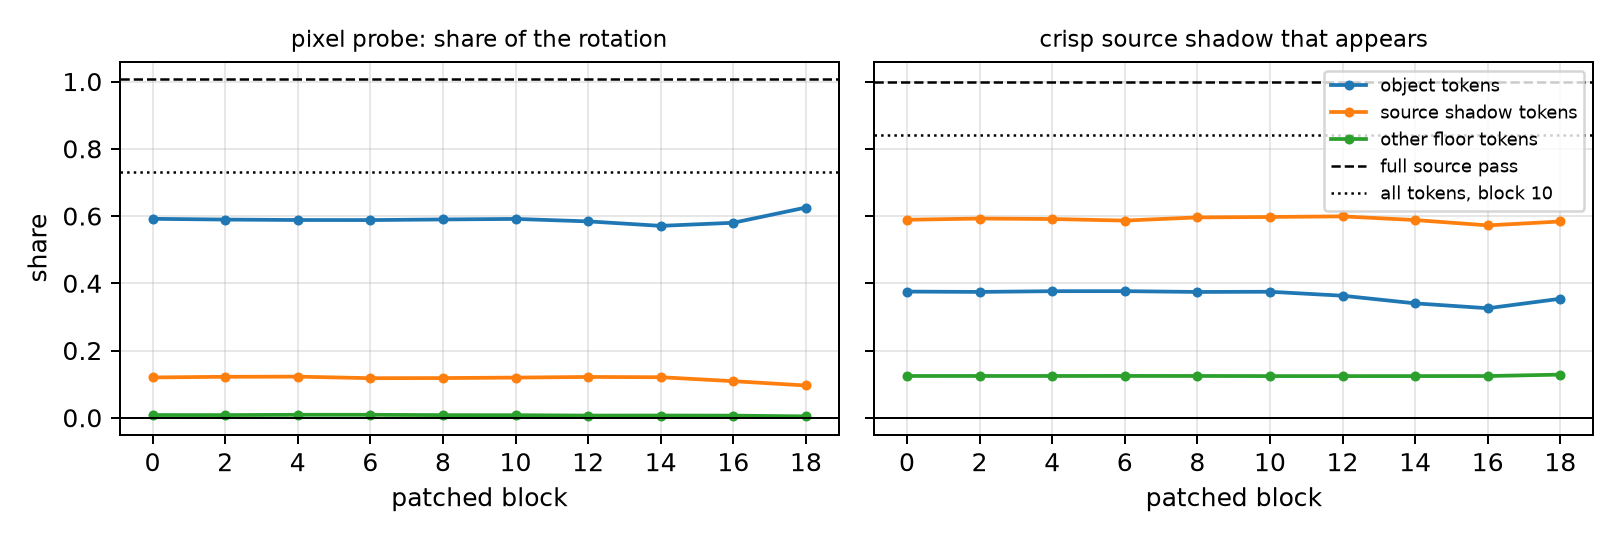
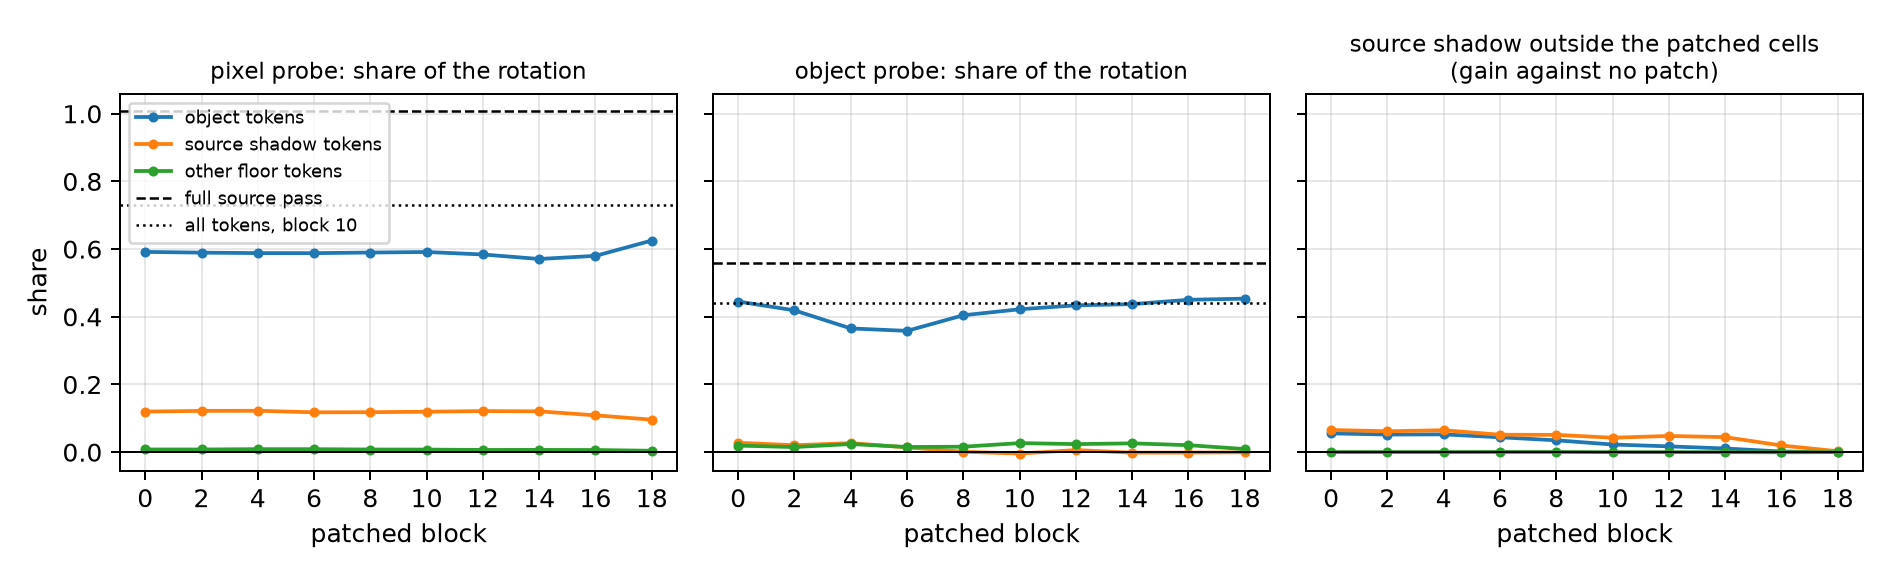
feat: add the object probe to the shift table and an erasure table
The patch figure now also shows the object probe and the source shadow outside
the patched cells. The causal bar figure is removed, because the table has its data.

diff --git a/scripts/experiments/result_figures.py b/scripts/experiments/result_figures.py
@@ -2,10 +2,11 @@
 
 - scan.png: the azimuth MAE of the SANA probe on each block, for each data set.
   Each timestep has one line, and the controls are horizontal lines.
-- causal.png: the rotation of the output light for each condition of the shift
-  and erase test, for each block;
+- causal.tex: the four measures of the output light for each condition of the
+  shift test, for each block;
+- erase.tex: the probe on the erased features and the output light for each eraser;
 - patch.png: the share of the light change that a patch of one region in one
-  block moves into the output.
+  block moves into the output, and the source shadow outside the patched cells.
 
 If the input files of a figure do not exist, the script skips the figure.
 """
@@ -21,16 +22,16 @@ import matplotlib
 
 matplotlib.use("Agg")
 import matplotlib.pyplot as plt  # noqa: E402
-import numpy as np  # noqa: E402
 import pandas as pd  # noqa: E402
 
 from dd3d.select import selected  # noqa: E402
 
+# The models without generation get a colour, so their lines differ from the black input controls.
 CONTROLS = {
-    "vae_latent": ("DC-AE latent", ":"),
-    "sana_random_init": ("SANA, random weights", "-."),
-    "dinov2": ("DINOv2-L (no generation)", (0, (5, 1, 1, 1))),
-    "clip": ("CLIP ViT-L/14 (no generation)", (0, (1, 1))),
+    "vae_latent": ("DC-AE latent", ":", "k"),
+    "sana_random_init": ("SANA, random weights", "-.", "k"),
+    "dinov2": ("DINOv2-L (no generation)", "--", "tab:red"),
+    "clip": ("CLIP ViT-L/14 (no generation)", ":", "tab:red"),
 }
 
 
@@ -82,7 +83,7 @@ def scan_figure(reports: Path, sets: list[str], split: str, grid: int, out: Path
         line = best_pixel_line(reports, name, split)
         if line is not None:
             ax.axhline(line[0], color="k", ls="--", lw=1, label=line[1])
-        for run, (label, style) in CONTROLS.items():
+        for run, (label, style, colour) in CONTROLS.items():
             row = sel[sel["run"] == run]
             if row.empty:
                 continue
@@ -94,7 +95,7 @@ def scan_figure(reports: Path, sets: list[str], split: str, grid: int, out: Path
                 & (df["grid"] == r["grid"])
             ]
             if len(v):
-                ax.axhline(v["az_mae"].iloc[0], color="k", ls=style, lw=1, label=label)
+                ax.axhline(v["az_mae"].iloc[0], color=colour, ls=style, lw=1.2, label=label)
         ax.set_title(TITLES.get(name, name), fontsize=9)
         ax.set_xlabel("block")
         ax.grid(alpha=0.3)
@@ -110,41 +111,6 @@ def scan_figure(reports: Path, sets: list[str], split: str, grid: int, out: Path
     print(f"-> {out}")
 
 
-def causal_figure(reports: Path, out: Path) -> None:
-    folders = sorted((reports / "causal").glob("b*/results.csv"))
-    if not folders:
-        print("causal figure: no results")
-        return
-    frames = []
-    for f in folders:
-        d = pd.read_csv(f)
-        d["block"] = int(f.parent.name[1:])
-        frames.append(d)
-    df = pd.concat(frames)
-    df = df[df["condition"] != "base"]
-    conds = list(dict.fromkeys(df["condition"]))
-    blocks = sorted(df["block"].unique())
-    fig, ax = plt.subplots(figsize=(7.5, 3.0))
-    width = 0.8 / len(blocks)
-    for j, b in enumerate(blocks):
-        g = df[df["block"] == b].set_index("condition").reindex(conds)
-        ci = np.array([json.loads(str(c).replace("(", "[").replace(")", "]")) for c in g["rotation_ci"]])
-        x = np.arange(len(conds)) + (j - (len(blocks) - 1) / 2) * width
-        err = np.abs(ci.T - g["rotation_mean"].to_numpy())
-        ax.bar(x, g["rotation_mean"], width, yerr=err, capsize=2, label=f"block {b}")
-    ax.axhline(90, color="k", ls=":", lw=1)
-    ax.axhline(0, color="k", lw=0.8)
-    ax.set_xticks(
-        range(len(conds)), [c.replace("shift:", "") for c in conds], rotation=25, ha="right", fontsize=8
-    )
-    ax.set_ylabel("rotation of the output (deg)")
-    ax.legend(fontsize=7)
-    ax.grid(axis="y", alpha=0.3)
-    fig.tight_layout()
-    fig.savefig(out, dpi=180)
-    print(f"-> {out}")
-
-
 def signed(v: float) -> str:
     """Format a rotation with its sign; a value that rounds to zero is 0."""
     r = round(float(v))
@@ -152,10 +118,10 @@ def signed(v: float) -> str:
 
 
 def causal_table(reports: Path, out: Path, folder: str = "causal") -> None:
-    """Write a LaTeX table: one row for each condition, two measures for each block.
+    """Write a LaTeX table: one row for each condition, one column for each measure.
 
-    The first measure is the pixel probe (mean rotation with a 95% interval). The
-    second is the dark shadow region (median rotation over the images).
+    Each cell gives the values of the blocks in the order of their numbers. The
+    rotations are the mean for the two probes and the median for the dark region.
     """
     files = sorted((reports / folder).glob("b*/results.csv"))
     if not files:
@@ -164,25 +130,88 @@ def causal_table(reports: Path, out: Path, folder: str = "causal") -> None:
     frames = {b: pd.read_csv(f).set_index("condition") for b, f in zip(blocks, files, strict=True)}
     order = sorted(blocks)
     conds = [c for c in frames[order[0]].index if c != "base"]
+    columns = (
+        ("rotation_mean", signed),
+        ("crop_rotation_mean", signed),
+        ("shadow_rotation_median", signed),
+        ("shadow_kept", lambda v: f"{v:.2f}"),
+        ("pixel_change", lambda v: f"{v:.0f}"),
+    )
     lines = [
-        "\\begin{tabular}{l" + "rr" * len(order) + "r}",
+        "\\begin{tabular}{lccccc}",
         "\\toprule",
-        " & " + " & ".join(f"\\multicolumn{{2}}{{c}}{{Block {b}}}" for b in order) + " & \\\\",
-        "Condition" + " & probe & shadow" * len(order) + " & pixels \\\\",
+        "Condition & Pixel probe & Object probe & Dark region & Kept share & Pixels \\\\",
         "\\midrule",
     ]
     for c in conds:
         cells = []
-        for b in order:
-            r = frames[b].loc[c]
-            lo, hi = (float(v) for v in str(r["rotation_ci"]).strip("()").split(","))
-            cells.append(f"${signed(r['rotation_mean'])}$ \\scriptsize{{[{signed(lo)}, {signed(hi)}]}}")
-            sm = r.get("shadow_rotation_median", float("nan"))
-            cells.append("--" if pd.isna(sm) else f"${signed(sm)}$")
-        change = np.mean([frames[b].loc[c, "pixel_change"] for b in order])
+        for col, fmt in columns:
+            vals = [frames[b].loc[c].get(col, float("nan")) for b in order]
+            cells.append(" / ".join("--" if pd.isna(v) else f"${fmt(v)}$" for v in vals))
         name = c.replace("shift:", "").replace("_", "\\_")
-        lines.append(f"{name} & " + " & ".join(cells) + f" & {change:.0f} \\\\")
+        lines.append(f"{name} & " + " & ".join(cells) + " \\\\")
     lines += ["\\bottomrule", "\\end{tabular}"]
+    out.write_text("\n".join(lines) + "\n")
+    print(f"-> {out}")
+
+
+def abs_turn_median(per_image: pd.DataFrame, condition: str) -> float:
+    """Return the median absolute change of the pixel-probe azimuth against the base output."""
+    base = per_image[per_image["condition"] == "base"].set_index("image_id")["pred_az"]
+    cond = per_image[per_image["condition"] == condition].set_index("image_id")["pred_az"]
+    turn = (cond - base.reindex(cond.index) + 180.0) % 360.0 - 180.0
+    return float(turn.abs().median())
+
+
+def erase_table(reports: Path, out: Path) -> None:
+    """Write a LaTeX table of the erasure test: one block of rows for each plan.
+
+    The pooled eraser comes from the first run. The cell eraser and its control
+    come from the second run, which has both, with the same images and noise.
+    """
+    names = {"erase": "pooled", "erase_cell": "cell", "erase_cell_random": "cell, control"}
+    rows = []
+    for tag in ("b04t400", "b10t400", "b18t400", "b05t100"):
+        runs = {
+            "erase": (reports / "causal_erase" / tag, reports / "plans" / f"{tag}e" / "plan.json"),
+            "erase_cell": (reports / "causal_erase_ctrl" / tag, reports / "plans" / f"{tag}c" / "plan.json"),
+        }
+        runs["erase_cell_random"] = runs["erase_cell"]
+        if not all((d / "results.csv").exists() and j.exists() for d, j in runs.values()):
+            print(f"erase table: no results for {tag}")
+            return
+        first = True
+        for cond, (folder, plan_file) in runs.items():
+            res = pd.read_csv(folder / "results.csv").set_index("condition")
+            plan = json.loads(plan_file.read_text())
+            if first:
+                base_err = res.loc["base", "label_az_error"]
+                probe = plan["probe"]["test"]["az_mae"]
+                block = f"{int(tag[1:3])}, $t={int(tag[4:])}$"
+                rows.append(
+                    f"{block} & none & ${probe:.1f}$ & -- & ${base_err:.1f}$ & $0$ & $1.00$ & $0$ \\\\"
+                )
+                first = False
+            after = plan["probe_after_erasure"][cond]["test"]
+            change = plan.get("erasure_change_norm", {}).get(cond)
+            change_txt = "--" if change is None else f"${100 * change / plan['mean_token_norm']:.1f}$"
+            r = res.loc[cond]
+            turn = abs_turn_median(pd.read_csv(folder / "per_image.csv"), cond)
+            rows.append(
+                f" & {names[cond]} & ${after:.1f}$ & {change_txt} & ${r['label_az_error']:.1f}$"
+                f" & ${turn:.0f}$ & ${r['shadow_kept']:.2f}$ & ${r['pixel_change']:.1f}$ \\\\"
+            )
+        rows.append("\\midrule")
+    lines = [
+        "\\begin{tabular}{llrrrrrr}",
+        "\\toprule",
+        " & & \\multicolumn{2}{c}{Features} & \\multicolumn{4}{c}{Output} \\\\",
+        "Block & Eraser & Probe & Change (\\%) & Error & $|$Turn$|$ & Kept & Pixels \\\\",
+        "\\midrule",
+        *rows[:-1],
+        "\\bottomrule",
+        "\\end{tabular}",
+    ]
     out.write_text("\n".join(lines) + "\n")
     print(f"-> {out}")
 
@@ -197,11 +226,14 @@ def patch_figure(reports: Path, out: Path) -> None:
     p["block"] = p["condition"].str.extract(r"b(\d+)_")[0].astype(int)
     p["region"] = p["condition"].str.extract(r"b\d+_(\w+)$")[0]
     names = {"object": "object tokens", "shadow_src": "source shadow tokens", "floor": "other floor tokens"}
+    # The source shadow outside the patched cells, minus its value without a patch.
+    p["outside_gain"] = p["source_shadow_outside"] - p["source_shadow_outside_base"]
     measures = (
         ("fraction_mean", "pixel probe: share of the rotation"),
-        ("source_shadow_shown", "crisp source shadow that appears"),
+        ("crop_fraction_mean", "object probe: share of the rotation"),
+        ("outside_gain", "source shadow outside the patched cells\n(gain against no patch)"),
     )
-    fig, axes = plt.subplots(1, 2, figsize=(9.0, 3.0), sharey=True)
+    fig, axes = plt.subplots(1, 3, figsize=(10.5, 3.2), sharey=True)
     for ax, (col, title) in zip(axes, measures, strict=True):
         for region, label in names.items():
             g = p[p["region"] == region].sort_values("block")
@@ -211,7 +243,7 @@ def patch_figure(reports: Path, out: Path) -> None:
             ("patch:b10_all", ":", "all tokens, block 10"),
         ):
             v = df[df["condition"] == cond]
-            if len(v):
+            if len(v) and col in v and pd.notna(v[col].iloc[0]):
                 ax.axhline(v[col].iloc[0], color="k", ls=style, lw=1, label=label)
         ax.axhline(0, color="k", lw=0.8)
         ax.set_title(title, fontsize=9)
@@ -219,7 +251,7 @@ def patch_figure(reports: Path, out: Path) -> None:
         ax.set_xticks(range(0, 19, 2))
         ax.grid(alpha=0.3)
     axes[0].set_ylabel("share")
-    axes[1].legend(fontsize=7)
+    axes[0].legend(fontsize=7)
     fig.tight_layout()
     fig.savefig(out, dpi=180)
     print(f"-> {out}")
@@ -235,10 +267,10 @@ def main() -> None:
     args = parser.parse_args()
     args.out.mkdir(parents=True, exist_ok=True)
     scan_figure(args.reports, args.sets.split(","), args.split, args.grid, args.out / "scan.png")
-    causal_figure(args.reports, args.out / "causal.png")
     tables = args.out.parent / "tables"
     tables.mkdir(parents=True, exist_ok=True)
     causal_table(args.reports, tables / "causal.tex")
+    erase_table(args.reports, tables / "erase.tex")
     patch_figure(args.reports, args.out / "patch.png")
     examples = args.reports / "causal_b05" / "b05t100" / "examples.png"
     if examples.exists():

diff --git a/docs/article/tables/rq1.tex b/docs/article/tables/rq1.tex
@@ -9,11 +9,15 @@ v1 & SANA-1.6B, original noise & 18, 200, 4 & $12.4$ \scriptsize{[10.7, 14.5]} &
 v1 & SANA-1.6B & 7, 100, 4 & $4.1$ \scriptsize{[3.4, 4.9]} & $4.8$ \scriptsize{[4.6, 5.1]} & $-8.0$ \scriptsize{[-8.9, -7.1]} \\
 v1 & Stable Diffusion 1.5 & up2, 100, 8 & $5.1$ \scriptsize{[4.4, 5.8]} & $6.9$ \scriptsize{[6.5, 7.4]} & $-5.9$ \scriptsize{[-6.8, -5.0]} \\
 v1 & SDXL & mid, 100, 4 & $5.4$ \scriptsize{[4.6, 6.4]} & $6.0$ \scriptsize{[5.7, 6.3]} & $-6.8$ \scriptsize{[-7.7, -5.9]} \\
+v1 & DINOv2-L (no generation) & 12, 0, 4 & $3.0$ \scriptsize{[2.7, 3.3]} & $4.1$ \scriptsize{[3.9, 4.3]} & $-8.7$ \scriptsize{[-9.6, -7.9]} \\
+v1 & CLIP ViT-L/14 (no generation) & 10, 0, 4 & $3.0$ \scriptsize{[2.7, 3.4]} & $4.4$ \scriptsize{[4.2, 4.7]} & $-8.4$ \scriptsize{[-9.3, -7.5]} \\
 \midrule
 v2 & Pixels (best grid) & 64 px & $2.5$ \scriptsize{[2.2, 2.9]} & $13.7$ \scriptsize{[13.0, 14.4]} & -- \\
 v2 & DC-AE latent & -- & $2.2$ \scriptsize{[1.9, 2.6]} & $9.2$ \scriptsize{[8.8, 9.7]} & $-4.4$ \scriptsize{[-4.8, -4.1]} \\
 v2 & SANA-1.6B & 4, 100, 8 & $2.2$ \scriptsize{[2.0, 2.5]} & $7.3$ \scriptsize{[7.0, 7.7]} & $-6.3$ \scriptsize{[-6.9, -5.8]} \\
 v2 & Stable Diffusion 1.5 & up0, 100, 8 & $3.3$ \scriptsize{[2.9, 3.7]} & $8.9$ \scriptsize{[8.5, 9.3]} & $-4.8$ \scriptsize{[-5.4, -4.2]} \\
+v2 & DINOv2-L (no generation) & 8, 0, 8 & $1.7$ \scriptsize{[1.5, 1.9]} & $8.0$ \scriptsize{[7.6, 8.4]} & $-5.7$ \scriptsize{[-6.2, -5.1]} \\
+v2 & CLIP ViT-L/14 (no generation) & 8, 0, 8 & $1.6$ \scriptsize{[1.4, 1.7]} & $8.0$ \scriptsize{[7.6, 8.3]} & $-5.7$ \scriptsize{[-6.3, -5.2]} \\
 \midrule
 v2r & Pixels (best grid) & 8 px & $21.5$ \scriptsize{[18.2, 25.0]} & $20.1$ \scriptsize{[18.8, 21.4]} & -- \\
 v2r & DC-AE latent & -- & $18.8$ \scriptsize{[16.5, 21.4]} & $19.0$ \scriptsize{[18.0, 20.1]} & $-1.1$ \scriptsize{[-2.3, +0.0]} \\
@@ -21,13 +25,19 @@ v2r & SANA-1.6B, random weights & 4, 100, 2 & $11.9$ \scriptsize{[10.4, 13.5]} &
 v2r & SANA-1.6B & 5, 100, 2 & $5.4$ \scriptsize{[4.8, 5.9]} & $7.6$ \scriptsize{[7.3, 8.0]} & $-12.5$ \scriptsize{[-13.8, -11.1]} \\
 v2r & Stable Diffusion 1.5 & mid, 100, 2 & $7.5$ \scriptsize{[6.8, 8.2]} & $11.1$ \scriptsize{[10.6, 11.6]} & $-9.1$ \scriptsize{[-10.4, -7.7]} \\
 v2r & SDXL & mid, 100, 4 & $5.9$ \scriptsize{[5.2, 6.6]} & $7.3$ \scriptsize{[6.9, 7.6]} & $-12.9$ \scriptsize{[-14.2, -11.6]} \\
+v2r & DINOv2-L (no generation) & 18, 0, 2 & $3.3$ \scriptsize{[2.9, 3.6]} & $10.0$ \scriptsize{[9.5, 10.5]} & $-10.1$ \scriptsize{[-11.5, -8.8]} \\
+v2r & CLIP ViT-L/14 (no generation) & 14, 0, 2 & $3.9$ \scriptsize{[3.4, 4.3]} & $16.0$ \scriptsize{[15.4, 16.7]} & $-4.1$ \scriptsize{[-5.5, -2.7]} \\
 \midrule
 v2r, no shadow & Pixels (best grid) & 16 px & $24.6$ \scriptsize{[20.7, 28.8]} & $23.3$ \scriptsize{[21.6, 24.9]} & -- \\
 v2r, no shadow & DC-AE latent & -- & $29.0$ \scriptsize{[25.2, 33.0]} & $30.7$ \scriptsize{[29.0, 32.5]} & $+7.4$ \scriptsize{[+5.5, +9.6]} \\
 v2r, no shadow & SANA-1.6B & 5, 100, 2 & $6.9$ \scriptsize{[6.2, 7.6]} & $9.9$ \scriptsize{[9.4, 10.4]} & $-13.4$ \scriptsize{[-14.9, -11.7]} \\
+v2r, no shadow & DINOv2-L (no generation) & 16, 0, 2 & $4.7$ \scriptsize{[4.3, 5.2]} & $14.1$ \scriptsize{[13.4, 14.8]} & $-9.2$ \scriptsize{[-10.9, -7.4]} \\
+v2r, no shadow & CLIP ViT-L/14 (no generation) & 12, 0, 2 & $5.1$ \scriptsize{[4.5, 5.7]} & $19.5$ \scriptsize{[18.4, 20.6]} & $-3.8$ \scriptsize{[-5.6, -1.9]} \\
 \midrule
 v2r, only shadow & Pixels (best grid) & 8 px & $24.6$ \scriptsize{[20.7, 29.0]} & $16.9$ \scriptsize{[15.6, 18.1]} & -- \\
 v2r, only shadow & DC-AE latent & -- & $15.7$ \scriptsize{[13.4, 18.2]} & $17.8$ \scriptsize{[16.5, 19.1]} & $+1.0$ \scriptsize{[-0.4, +2.4]} \\
 v2r, only shadow & SANA-1.6B & 7, 100, 4 & $5.9$ \scriptsize{[5.2, 6.7]} & $7.9$ \scriptsize{[7.6, 8.3]} & $-8.9$ \scriptsize{[-10.2, -7.6]} \\
+v2r, only shadow & DINOv2-L (no generation) & 16, 0, 2 & $3.4$ \scriptsize{[3.1, 3.8]} & $7.8$ \scriptsize{[7.5, 8.2]} & $-9.1$ \scriptsize{[-10.4, -7.8]} \\
+v2r, only shadow & CLIP ViT-L/14 (no generation) & 12, 0, 2 & $4.4$ \scriptsize{[3.9, 4.8]} & $7.2$ \scriptsize{[6.9, 7.6]} & $-9.6$ \scriptsize{[-10.9, -8.3]} \\
 \bottomrule
 \end{tabular}

diff --git a/docs/article/tables/causal.tex b/docs/article/tables/causal.tex
@@ -1,14 +1,13 @@
-\begin{tabular}{lrrrrrrr}
+\begin{tabular}{lccccc}
 \toprule
- & \multicolumn{2}{c}{Block 4} & \multicolumn{2}{c}{Block 10} & \multicolumn{2}{c}{Block 18} & \\
-Condition & probe & shadow & probe & shadow & probe & shadow & pixels \\
+Condition & Pixel probe & Object probe & Dark region & Kept share & Pixels \\
 \midrule
-probe\_exact & $+41$ \scriptsize{[+36, +46]} & $+4$ & $+23$ \scriptsize{[+20, +26]} & $+1$ & $+40$ \scriptsize{[+36, +44]} & $+2$ & 2 \\
-probe\_r1 & $-4$ \scriptsize{[-30, +21]} & $+83$ & $-3$ \scriptsize{[-28, +21]} & $+81$ & $+84$ \scriptsize{[+80, +89]} & $+46$ & 107 \\
-random\_probe & $-3$ \scriptsize{[-26, +20]} & $-22$ & $-5$ \scriptsize{[-31, +21]} & -- & $+14$ \scriptsize{[-3, +32]} & $-3$ & 138 \\
-pattern\_x1 & $+65$ \scriptsize{[+60, +71]} & $+7$ & $+60$ \scriptsize{[+55, +65]} & $+7$ & $+62$ \scriptsize{[+58, +68]} & $+5$ & 4 \\
-pattern\_x3 & $+121$ \scriptsize{[+117, +125]} & $+109$ & $+121$ \scriptsize{[+116, +125]} & $+107$ & $+120$ \scriptsize{[+115, +124]} & $+92$ & 13 \\
-random\_pattern & $0$ \scriptsize{[-1, +1]} & $0$ & $0$ \scriptsize{[-3, +2]} & $-1$ & $-2$ \scriptsize{[-5, +1]} & $0$ & 2 \\
-erase & $0$ \scriptsize{[-1, 0]} & $0$ & $0$ \scriptsize{[-1, 0]} & $0$ & $0$ \scriptsize{[-1, +1]} & $0$ & 2 \\
+probe\_exact & $+41$ / $+23$ / $+40$ & $+28$ / $+22$ / $+29$ & $+4$ / $+1$ / $+2$ & $0.74$ / $0.83$ / $0.89$ & $2$ / $1$ / $2$ \\
+probe\_r1 & $-4$ / $-3$ / $+84$ & $+9$ / $-32$ / $+11$ & $+83$ / $+81$ / $+46$ & $0.28$ / $0.35$ / $0.46$ & $148$ / $132$ / $40$ \\
+random\_probe & $-3$ / $-5$ / $+14$ & $-8$ / $-11$ / $-22$ & $-22$ / -- / $-3$ & $0.16$ / $0.00$ / $0.46$ & $157$ / $208$ / $49$ \\
+pattern\_x1 & $+65$ / $+60$ / $+62$ & $+52$ / $+50$ / $+51$ & $+7$ / $+7$ / $+5$ & $0.68$ / $0.73$ / $0.80$ & $5$ / $4$ / $4$ \\
+pattern\_x3 & $+121$ / $+121$ / $+120$ & $+82$ / $+71$ / $+71$ & $+109$ / $+107$ / $+92$ & $0.32$ / $0.34$ / $0.40$ & $13$ / $13$ / $13$ \\
+random\_pattern & $0$ / $0$ / $-2$ & $-1$ / $-4$ / $-7$ & $0$ / $-1$ / $0$ & $0.88$ / $0.82$ / $0.86$ & $1$ / $3$ / $3$ \\
+erase & $0$ / $0$ / $0$ & $+2$ / $+2$ / $-6$ & $0$ / $0$ / $0$ & $0.98$ / $0.99$ / $0.93$ & $2$ / $2$ / $2$ \\
 \bottomrule
 \end{tabular}
